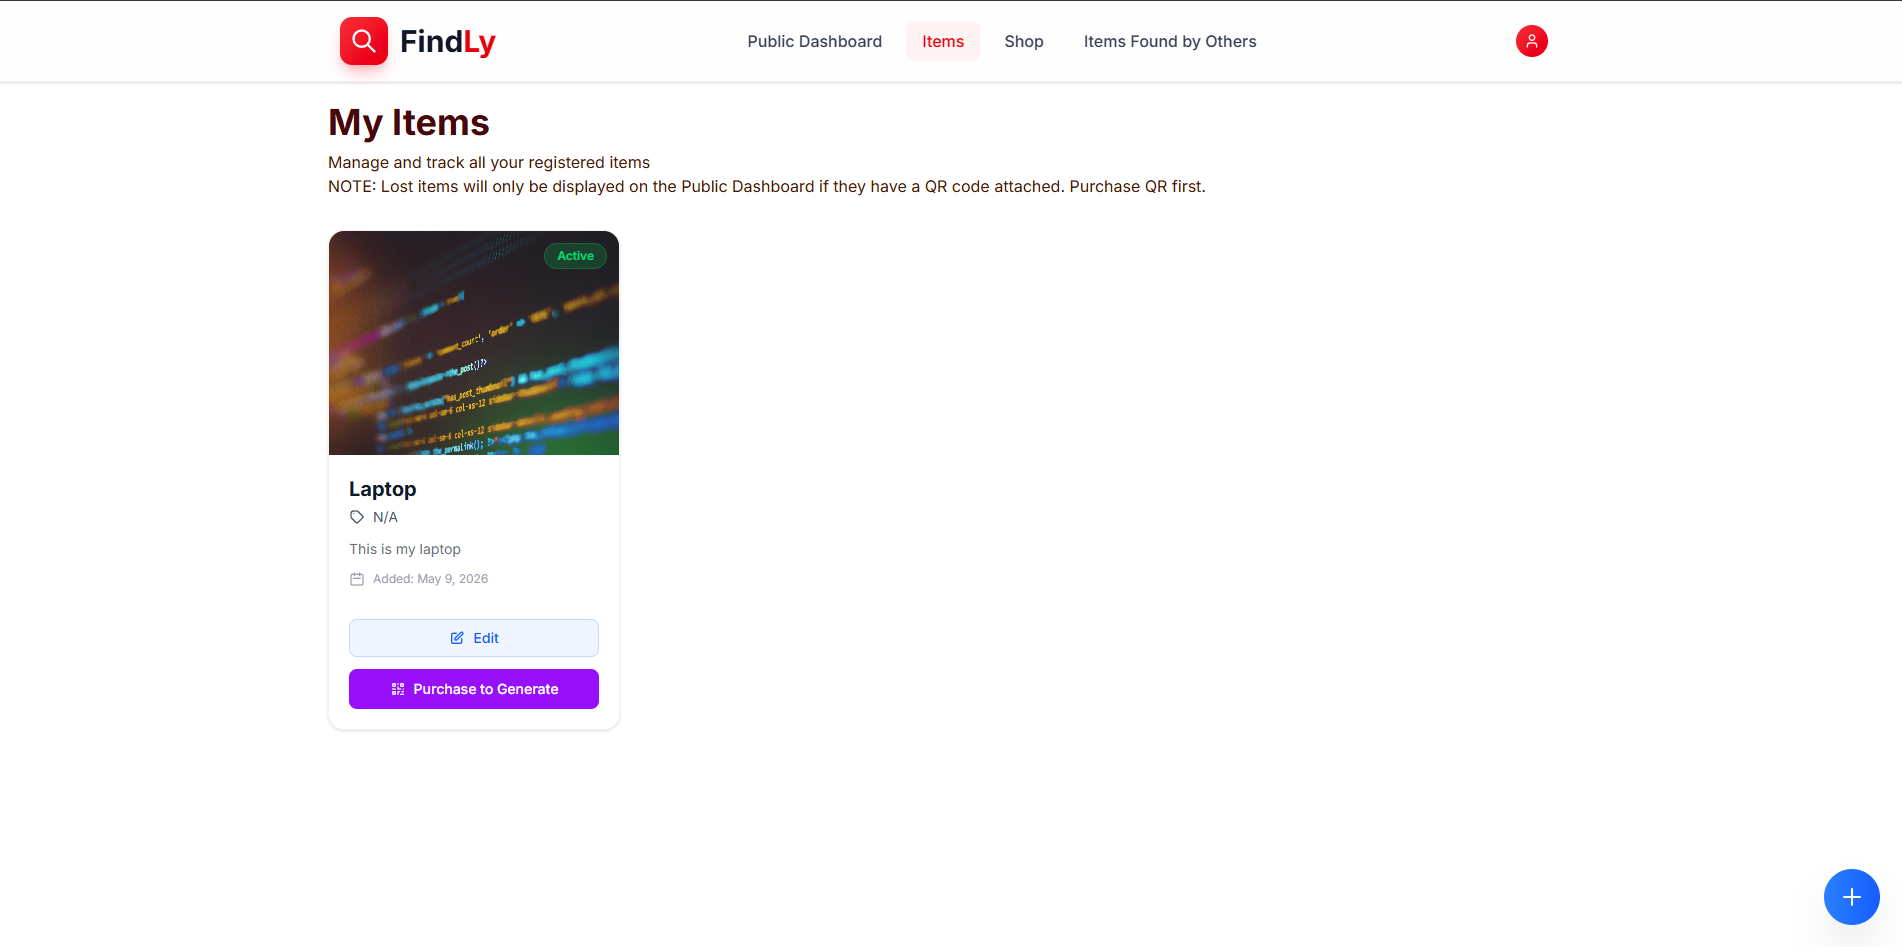
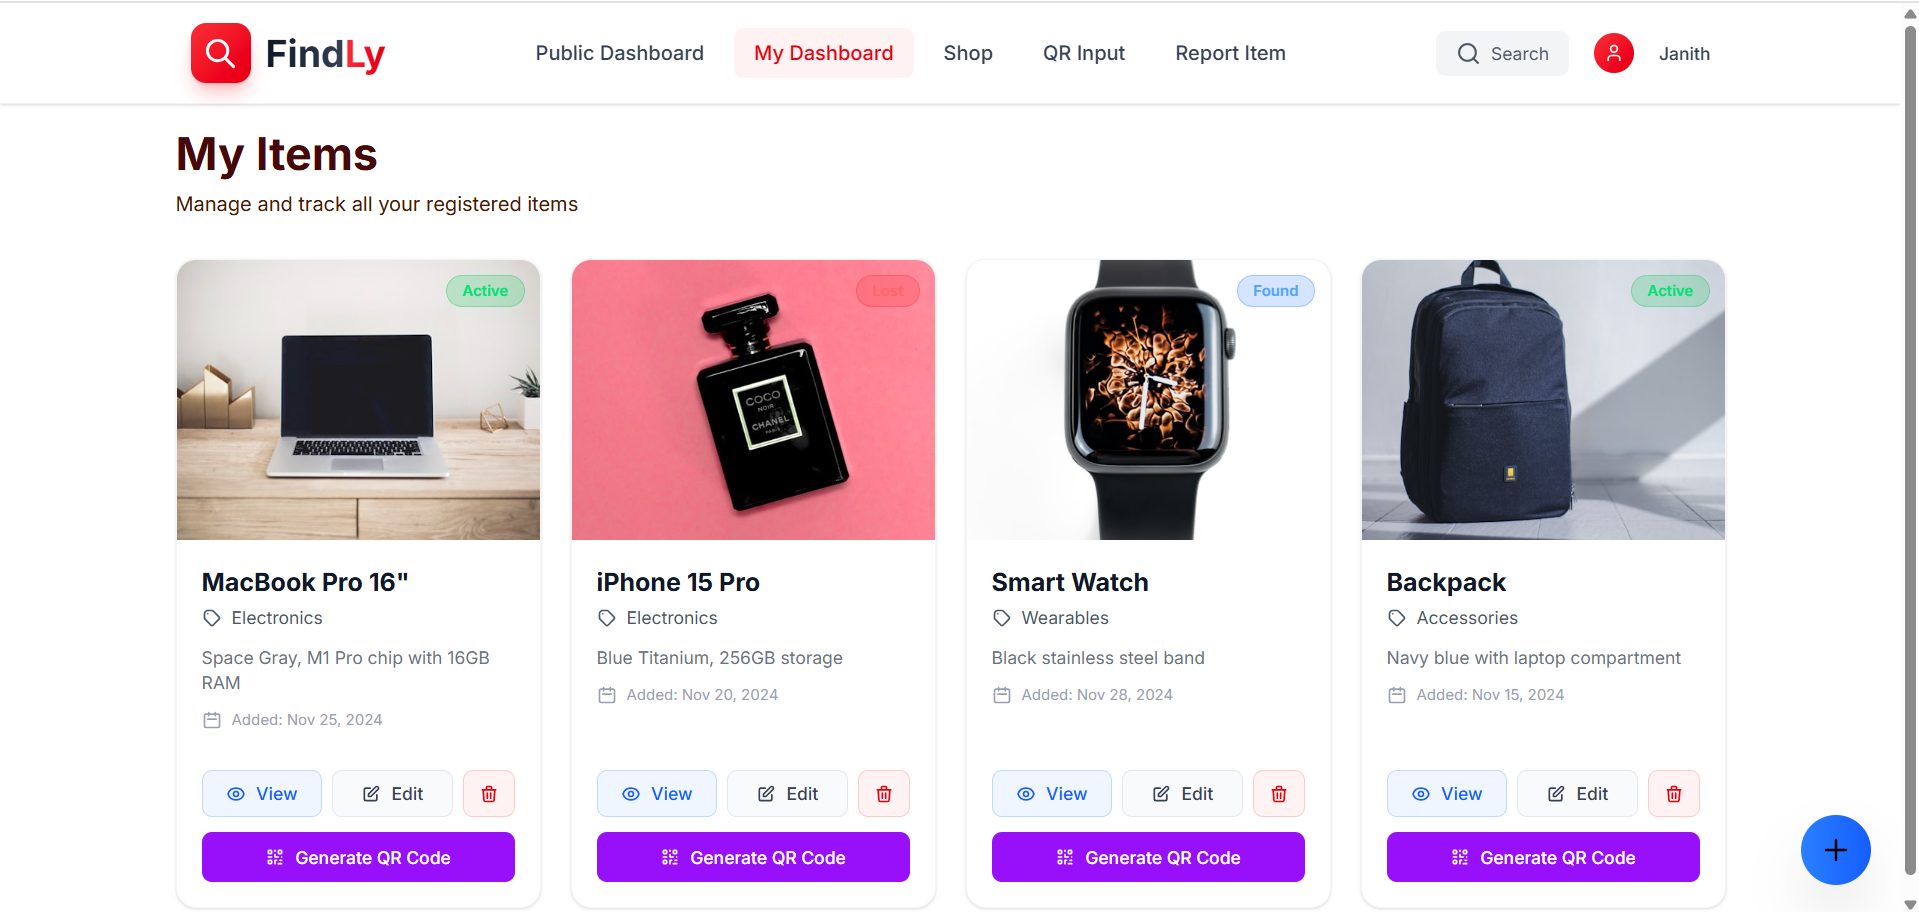
update the project details

diff --git a/src/pages/ProjectDetails.jsx b/src/pages/ProjectDetails.jsx
@@ -1,14 +1,18 @@
 import { Link, useParams, useNavigate } from "react-router";
 import { useState, useEffect } from "react";
+
 import progresso1 from "../assets/progress-projects.jpg";
 import progresso2 from "../assets/progresso-dashboard.jpg";
 import progresso3 from "../assets/progresso-task.jpg";
+
 import Goldsmith1 from "../assets/dashboard.png";
 import Goldsmith2 from "../assets/h&c login.png";
+
 import Smartleaf1 from "../assets/smartleaf1.jpg";
 import Smartleaf2 from "../assets/smartleaf2.jpg";
 import Smartleaf3 from "../assets/smartleaf3.jpg";
 import Smartleaf4 from "../assets/smartleaf4.jpg";
+
 import findly1 from "../assets/findly1.png";
 import findly2 from "../assets/findly2.png";
 import findly3 from "../assets/findly3.png";
@@ -17,90 +21,126 @@ import findly4 from "../assets/findly4.png";
 const projects = {
   progresso: {
     title: "Progresso",
+
     description:
-      "A mobile app for managing construction projects, daily site logs, and on-site updates to improve coordination and tracking.",
+      "Progresso is a construction project progress tracking mobile application designed to help teams manage on-site operations, monitor project updates, and improve coordination between project managers and field workers. Inspired by productivity tools like Asana, the app centralizes project activities such as task assignments, daily site logs, material tracking, issues on site, approvals, and project instructions into a single platform.",
+
     images: [progresso1, progresso2, progresso3],
+
     stack: [
-      "Prisma ORM",
+      "React Native (Expo)",
+      "TypeScript",
+      "Node JS",
+      "Express JS",
       "MySQL",
+      "Prisma ORM",
       "Docker",
       "Github Actions",
-      "Express JS",
-      "Node JS",
-      "TypeScript",
-      "React Native (Expo)",
     ],
+
     features: [
-      "Create and manage construction projects",
-      "Daily site logging with progress tracking",
-      "Real-time project updates for teams",
-      "Organized documentation of site activities",
+      "Role-Based Access Control",
+      "Task Assignment",
+      "Daily Site Logs",
+      "Weekly Report Generation",
+      "PDF Export",
+      "Material Tracking",
+      "Approvals & Instructions",
     ],
-    challenges:
-      "Designed a structured data system for daily logs and project tracking while ensuring smooth synchronization between mobile users and backend APIs.",
+     github: "https://github.com/jraay12/progresso-backend.git",
+
+    impact:
+      "The system improves communication between field teams and project managers by centralizing updates, reports, and site activities into one organized workflow.",
   },
+
   Goldsmith: {
     title: "H&C Goldsmith",
+
     description:
-      "A web-based internal system for managing inventory, orders, users, and basic financial tracking for small to medium operations.",
+      "An internal inventory and order management system built for small to medium jewelry operations, including stock tracking, order handling, and financial monitoring.",
+
     images: [Goldsmith1, Goldsmith2],
+
     stack: [
-      "Prisma ORM",
-      "MySQL",
-      "Docker",
-      "Github Actions",
-      "Express JS",
-      "JavaScript",
       "React JS",
+      "JavaScript",
       "Node JS",
+      "Express JS",
+      "MySQL",
+      "Prisma ORM",
+      "Docker",
     ],
+
     features: [
-      "Create and manage construction projects",
-      "Daily site logging with progress tracking",
-      "Real-time project updates for teams",
-      "Organized documentation of site activities",
+      "Inventory Management",
+      "Order Tracking",
+      "Financial Monitoring",
+      "User Management",
+      "Reports & Records",
     ],
-    challenges:
-      "Designed a structured data system for daily logs and project tracking while ensuring smooth synchronization between mobile users and backend APIs.",
+
+    github: "https://github.com/jraay12/inventory_v2.git",
+
+    impact:
+      "Helped streamline inventory operations and reduced manual tracking through centralized internal management tools.",
   },
+
   Findly: {
     title: "Findly",
+
     description:
-      "A web-based internal system for managing inventory, orders, users, and basic financial tracking for small to medium operations.",
+      "Findly is a lost-and-found management platform that helps users register personal belongings using unique QR codes for easier recovery and ownership verification. The system allows owners to manage registered items through a dedicated dashboard while enabling the public to report found items with photos and detailed information. Designed to improve item recovery workflows, the platform also includes automated email notifications, public lost-item listings, and featured item/shop functionality.",
+
     images: [findly1, findly2, findly3, findly4],
+
     stack: [
-      "Prisma ORM",
-      "MySQL",
-      "Docker",
-      "Github Actions",
-      "Express JS",
-      "JavaScript",
       "React JS",
+      "JavaScript",
       "Node JS",
+      "Express JS",
+      "MySQL",
+      "Prisma ORM",
+      "Docker",
     ],
+
     features: [
-      "Create and manage construction projects",
-      "Daily site logging with progress tracking",
-      "Real-time project updates for teams",
-      "Organized documentation of site activities",
+      "QR Code Generation for Registered Items",
+      "Lost & Found Reporting with Photos",
+      "Automated Email Notifications",
+      "Owner Dashboard with Email Login",
+      "Item Status Management",
+      "Register Additional Items",
+      "Public Lost Items Dashboard",
+      "Featured Items & Shop Section",
     ],
-    challenges:
-      "Designed a structured data system for daily logs and project tracking while ensuring smooth synchronization between mobile users and backend APIs.",
+
+    github: "https://github.com/jraay12/findly-backend.git",
+
+    impact:
+      "The platform simplifies the lost-and-found process by connecting item owners and finders through QR technology, centralized item management, and automated notifications for faster recovery and better tracking.",
   },
+
   smartleaf: {
     title: "Smart Leaf",
+
     description:
-      "A mobile application that detects and analyzes mango leaf diseases using AI-powered image recognition and machine learning models trained with mango leaf datasets from Kaggle.",
+      "A mobile application that detects mango leaf diseases using AI-powered image analysis and machine learning models trained from Kaggle datasets.",
+
     images: [Smartleaf1, Smartleaf2, Smartleaf3, Smartleaf4],
+
     stack: ["React Native", "Python", "FastAPI", "Kaggle Dataset"],
+
     features: [
-      "Create and manage construction projects",
-      "Daily site logging with progress tracking",
-      "Real-time project updates for teams",
-      "Organized documentation of site activities",
+      "Leaf Disease Detection",
+      "Image Upload & Analysis",
+      "AI Prediction Results",
+      "Mobile-friendly Interface",
     ],
-    challenges:
-      "Designed a structured data system for daily logs and project tracking while ensuring smooth synchronization between mobile users and backend APIs.",
+
+    github: "https://github.com/jraay12/mango-new.git",
+
+    impact:
+      "Provided a faster and more accessible way to identify mango leaf diseases using mobile AI-assisted detection.",
   },
 };
 
@@ -118,15 +158,15 @@ export default function ProjectDetails() {
 
   if (!project) {
     return (
-      <div className="flex min-h-screen items-center justify-center bg-slate-50 text-slate-700">
+      <div className="flex min-h-screen items-center justify-center bg-white text-slate-700">
         Project not found
       </div>
     );
   }
 
   return (
-    <section className="relative bg-slate-50 px-6 py-20">
-      <div className="mx-auto max-w-7xl">
+    <section className="bg-white px-6 py-16">
+      <div className="mx-auto max-w-6xl">
         {/* BACK */}
         <Link
           to="#"
@@ -134,103 +174,133 @@ export default function ProjectDetails() {
             e.preventDefault();
             navigate(-1);
           }}
+          className="text-sm text-slate-500 transition hover:text-slate-900"
         >
           ← Back to projects
         </Link>
 
         {/* HERO */}
-        <div className="mt-10 grid gap-10 lg:grid-cols-2">
+        <div className="mt-10 grid gap-14 lg:grid-cols-[1.1fr_0.9fr]">
           {/* LEFT */}
           <div>
-            <h1 className="text-5xl font-black text-slate-900">
+            <h1 className="text-5xl font-black tracking-tight text-slate-900">
               {project.title}
             </h1>
 
-            <p className="mt-6 text-lg leading-8 text-slate-600">
+            <p className="mt-6 leading-8 text-slate-600">
               {project.description}
             </p>
 
             {/* STACK */}
-            <div className="mt-8 flex flex-wrap gap-3">
+            <div className="mt-8 flex flex-wrap gap-2">
               {project.stack.map((tech) => (
                 <span
                   key={tech}
-                  className="rounded-xl border border-slate-200 bg-white px-4 py-2 text-sm text-slate-700 shadow-sm"
+                  className="rounded-full bg-slate-100 px-4 py-2 text-sm text-slate-700"
                 >
                   {tech}
                 </span>
               ))}
             </div>
+
+            {/* ACTIONS */}
+            <div className="mt-8 flex flex-wrap gap-3">
+              {project.github && (
+                <a
+                  href={project.github}
+                  target="_blank"
+                  rel="noopener noreferrer"
+                  className="
+        inline-flex items-center gap-2 rounded-full
+        bg-slate-900 px-5 py-2.5 text-sm font-medium
+        text-white transition hover:bg-slate-800
+      "
+                >
+                  GitHub Repository
+                </a>
+              )}
+
+              {project.demo && (
+                <a
+                  href={project.demo}
+                  target="_blank"
+                  rel="noopener noreferrer"
+                  className="
+        inline-flex items-center gap-2 rounded-full
+        border border-slate-200 bg-white px-5 py-2.5
+        text-sm font-medium text-slate-700
+        transition hover:bg-slate-100
+      "
+                >
+                  Live Demo
+                </a>
+              )}
+            </div>
+
+            {/* FEATURES */}
+            <div className="mt-14">
+              <h2 className="text-lg font-semibold text-slate-900">
+                Key Features
+              </h2>
+
+              <div className="mt-5 grid gap-3 sm:grid-cols-2">
+                {project.features.map((feature) => (
+                  <div
+                    key={feature}
+                    className="flex items-start gap-3 text-slate-700"
+                  >
+                    <div className="mt-2 h-2 w-2 rounded-full bg-slate-400" />
+
+                    <p className="text-sm leading-7">{feature}</p>
+                  </div>
+                ))}
+              </div>
+            </div>
+
+            {/* IMPACT */}
+            <div className="mt-14 border-l-2 border-slate-200 pl-6">
+              <h2 className="text-lg font-semibold text-slate-900">
+                Project Impact
+              </h2>
+
+              <p className="mt-4 leading-8 text-slate-600">{project.impact}</p>
+            </div>
           </div>
 
-          {/* RIGHT - IMAGE GALLERY */}
+          {/* RIGHT */}
           <div>
             {/* MAIN IMAGE */}
-            <div className="overflow-hidden rounded-[2rem] border border-slate-200 bg-slate-100 shadow-xl">
+            <div className="overflow-hidden rounded-3xl border border-slate-200 bg-slate-50">
               <img
                 src={project.images[activeImage]}
                 alt={project.title}
                 className="
                   w-full object-contain
-                  max-h-[600px] md:max-h-[520px]
-                  transition duration-700 hover:scale-105
+                  max-h-[620px]
                 "
               />
             </div>
 
             {/* THUMBNAILS */}
-            <div className="mt-4 grid grid-cols-3 gap-3">
+            <div className="mt-4 flex gap-3 overflow-x-auto pb-2">
               {project.images.map((img, index) => (
                 <button
                   key={index}
                   onClick={() => setActiveImage(index)}
                   className={`
-                    overflow-hidden rounded-xl border transition
+                    overflow-hidden rounded-2xl border transition
                     ${
                       activeImage === index
                         ? "border-slate-900"
-                        : "border-slate-200 opacity-70"
+                        : "border-slate-200 opacity-60"
                     }
                   `}
                 >
-                  <img
-                    src={img}
-                    className="
-                      h-20 w-full object-cover
-                      hover:scale-105 transition
-                    "
-                  />
+                  <img src={img} className="h-20 w-24 object-cover" />
                 </button>
               ))}
             </div>
           </div>
-        </div>
-
-        {/* FEATURES */}
-        <div className="mt-32">
-          <h2 className="text-4xl font-black text-slate-900">Key Features</h2>
-
-          <div className="mt-8 grid gap-6 md:grid-cols-2">
-            {project.features.map((feature) => (
-              <div
-                key={feature}
-                className="rounded-3xl border border-slate-200 bg-white p-6 shadow-sm"
-              >
-                <p className="text-slate-700">{feature}</p>
-              </div>
-            ))}
-          </div>
-        </div>
-
-        {/* CHALLENGES */}
-        <div className="mt-32 rounded-[2rem] border border-slate-200 bg-white p-10 shadow-sm">
-          <h2 className="text-4xl font-black text-slate-900">
-            Challenges & Solutions
-          </h2>
-
-          <p className="mt-6 text-lg leading-8 text-slate-600">
-            {project.challenges}
-          </p>
         </div>
       </div>
     </section>

diff --git a/src/components/NavBar.jsx b/src/components/NavBar.jsx
@@ -4,7 +4,7 @@ import clsx from "clsx";
 
 const navItems = [
   { label: "Home", href: "#home" },
-  { label: "Stack", href: "#stack" },
+  { label: "Skills", href: "#stack" },
   { label: "Projects", href: "#projects" },
   { label: "Experience", href: "#experience" },
   { label: "Contact", href: "#contact" },